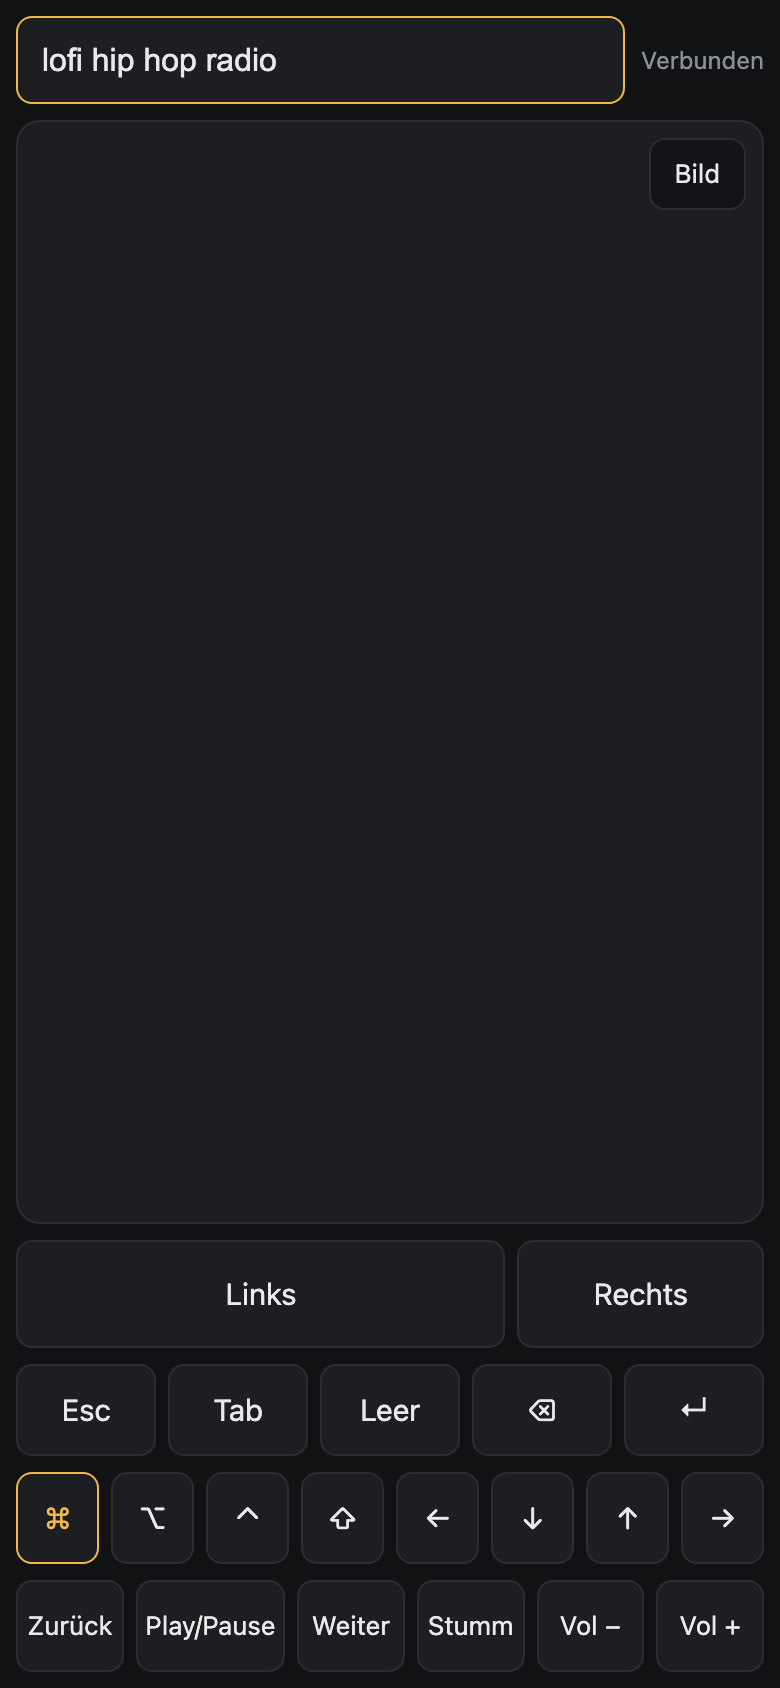
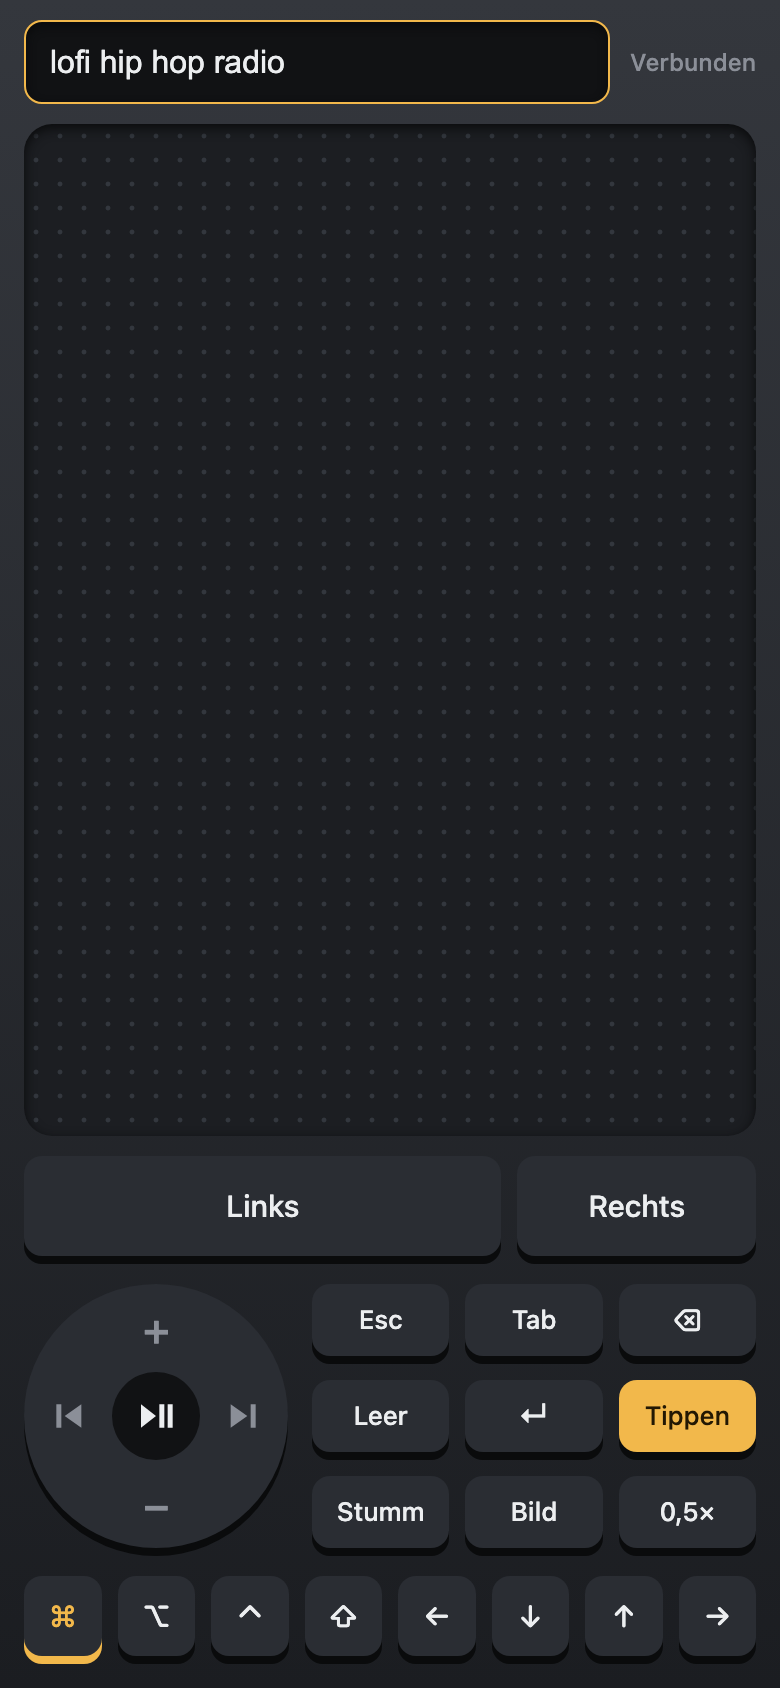
Redesign the web UI as a hardware remote with a full-screen pointer mode
Key caps with a visible edge that sink when pressed, a dial for volume
and transport, and the live view as a display above the trackpad.
Tapping the display opens pointer mode: the live view fills the phone,
the whole screen is the trackpad and the mouse keys float in a dock.
While the iOS keyboard is open only Esc, Tab, modifiers and arrows stay.

README screenshots show the remote, pointer mode and typing.

diff --git a/Web/index.html b/Web/index.html
@@ -7,47 +7,87 @@
 <meta name="mobile-web-app-capable" content="yes">
 <meta name="apple-mobile-web-app-status-bar-style" content="black-translucent">
 <meta name="apple-mobile-web-app-title" content="Remotey">
-<meta name="theme-color" content="#111214">
+<meta name="theme-color" content="#34373d">
 <link rel="apple-touch-icon" href="/icon.png">
 <title>Remotey</title>
 <style>
+  /* A hardware remote: graphite body, key caps with a visible edge that sink when pressed. */
   :root {
-    --bg: #111214; --surface: #1c1e22; --surface-active: #2e3138; --line: #2a2d33;
-    --text: #e8e9eb; --muted: #8b8f98; --accent: #f2b84b; --bad: #ef6b5e;
+    --body-top: #34373d; --body-bottom: #1b1d21; --deep: #111214; --surface: #1c1e22; --cap: #2a2d33;
+    --edge: #0a0b0c; --line: #33373e; --text: #eceef0; --muted: #8b8f98;
+    --accent: #f2b84b; --accent-ink: #231803; --bad: #ef6b5e; --glass: rgba(17, 18, 20, .72);
   }
   * { box-sizing: border-box; -webkit-tap-highlight-color: transparent; }
-  html, body { margin: 0; height: 100%; background: var(--bg); color: var(--text); overflow: hidden;
-    font: 15px/1.2 -apple-system, system-ui, sans-serif; overscroll-behavior: none; }
+  [hidden] { display: none !important; }
+  html, body { margin: 0; height: 100%; background: var(--body-bottom); color: var(--text); overflow: hidden;
+    font: 500 15px/1.2 -apple-system, system-ui, sans-serif; overscroll-behavior: none; }
   body { position: fixed; inset: 0; -webkit-user-select: none; user-select: none; -webkit-touch-callout: none; }
   #app { position: absolute; top: 0; left: 0; right: 0; height: var(--vh, 100dvh); display: flex;
-    flex-direction: column; gap: 8px;
-    padding: max(8px, env(safe-area-inset-top)) max(8px, env(safe-area-inset-right))
-             max(8px, env(safe-area-inset-bottom)) max(8px, env(safe-area-inset-left)); }
-  #top { display: flex; gap: 8px; align-items: center; }
-  #field { flex: 1; min-width: 0; height: 44px; padding: 0 12px; border-radius: 8px; border: 1px solid var(--line);
-    background: var(--surface); color: var(--text); font-size: 16px; outline: none;
+    flex-direction: column; gap: 10px; background: linear-gradient(180deg, var(--body-top), var(--body-bottom));
+    padding: max(10px, env(safe-area-inset-top)) max(12px, env(safe-area-inset-right))
+             max(12px, env(safe-area-inset-bottom)) max(12px, env(safe-area-inset-left)); }
+
+  #top { display: flex; gap: 10px; align-items: center; }
+  #field { flex: 1; min-width: 0; height: 42px; padding: 0 12px; border-radius: 9px; border: 1px solid var(--edge);
+    background: var(--deep); color: var(--text); font-size: 16px; outline: none; box-shadow: inset 0 2px 5px var(--edge);
     -webkit-user-select: text; user-select: text; }
   #field:focus { border-color: var(--accent); }
   #status { font-size: 12px; color: var(--muted); white-space: nowrap; }
   #status.bad { color: var(--bad); }
-  [hidden] { display: none !important; }
-  #padwrap { flex: 1; min-height: 60px; position: relative; overflow: hidden; border-radius: 12px;
-    background: var(--surface); border: 1px solid var(--line); }
+
+  /* Display: the live view. Small above the trackpad, or the whole phone in pointer mode. */
+  #screen { flex: 0 0 27%; position: relative; overflow: hidden; border-radius: 10px; background: var(--deep);
+    border: 3px solid var(--edge); box-shadow: inset 0 0 12px var(--edge); }
   #view { position: absolute; inset: 0; width: 100%; height: 100%; }
   #marker { position: absolute; width: 30px; height: 30px; margin: -15px 0 0 -15px; border-radius: 50%;
     border: 2px solid var(--accent); pointer-events: none; }
-  #pad { position: absolute; inset: 0; touch-action: none; display: flex; align-items: center;
-    justify-content: center; text-align: center; color: var(--muted); font-size: 13px; padding: 24px; }
-  #viewctl { position: absolute; top: 8px; right: 8px; display: flex; gap: 6px; }
-  #viewctl button { flex: none; height: 36px; padding: 0 12px; font-size: 13px; background: rgba(17, 18, 20, .78); }
-  .row { display: flex; gap: 6px; }
-  button { flex: 1; min-width: 0; height: 46px; border: 1px solid var(--line); border-radius: 8px;
-    background: var(--surface); color: var(--text); font: inherit; padding: 0; touch-action: none; }
-  button.pressed { background: var(--surface-active); }
-  button.on { border-color: var(--accent); color: var(--accent); }
-  .mouse button { height: 54px; }
-  .media button { font-size: 13px; }
+  #grow { position: absolute; right: 6px; bottom: 6px; padding: 4px 8px; border-radius: 7px; font-size: 11px;
+    background: var(--glass); color: var(--text); pointer-events: none; }
+
+  #pad { flex: 1; min-height: 60px; border-radius: 14px; touch-action: none; display: flex; align-items: center;
+    justify-content: center; text-align: center; color: var(--muted); font-size: 13px; padding: 24px;
+    background-color: var(--surface); background-image: radial-gradient(var(--line) 1px, transparent 1.4px);
+    background-size: 12px 12px; box-shadow: inset 0 2px 6px var(--edge); }
+
+  .row { display: flex; gap: 8px; padding-bottom: 4px; }
+  button { font: inherit; color: var(--text); border: 0; padding: 0; margin: 0; touch-action: none; }
+  .cap { flex: 1; min-width: 0; height: 40px; border-radius: 9px; background: var(--cap);
+    box-shadow: 0 4px 0 var(--edge); transition: transform .05s, box-shadow .05s; }
+  .cap.pressed, .cap:active { transform: translateY(3px); box-shadow: 0 1px 0 var(--edge); }
+  .cap.on { color: var(--accent); box-shadow: 0 4px 0 var(--accent); }
+  .cap.on.pressed { box-shadow: 0 1px 0 var(--accent); }
+  .cap.accent { background: var(--accent); color: var(--accent-ink); }
+  .cap.small { font-size: 13px; }
+  .mouse .cap { height: 50px; }
+
+  .deck { gap: 12px; align-items: flex-start; }
+  .dial { flex: none; width: 132px; height: 132px; border-radius: 50%; background: var(--cap);
+    box-shadow: 0 4px 0 var(--edge); display: grid; grid-template: repeat(3, 1fr) / repeat(3, 1fr); }
+  .dial button { background: none; color: var(--muted); font-size: 22px; display: grid; place-items: center; }
+  .dial button.pressed, .dial button:active { color: var(--accent); }
+  .dial svg { width: 20px; height: 20px; fill: currentColor; pointer-events: none; }
+  .dial .ok { border-radius: 50%; background: var(--deep); color: var(--text); }
+  .dial .ok.pressed, .dial .ok:active { background: var(--accent); color: var(--accent-ink); }
+  .keys { flex: 1; min-width: 0; display: grid; grid-template-columns: repeat(3, 1fr); gap: 12px 8px; }
+  .keys .cap { height: 36px; }
+
+  .kb-only { display: none; }
+  body.kb .kb-only { display: flex; }
   body.kb .hide-kb { display: none; }
+
+  /* Pointer mode: the display fills the phone, the whole screen is the trackpad, keys float in a dock. */
+  #dock { display: none; }
+  body.full #top, body.full .row { display: none; }
+  body.full #screen { position: fixed; inset: 0; border: 0; border-radius: 0; box-shadow: none; }
+  body.full #grow { display: none; }
+  body.full #pad { position: fixed; inset: 0; z-index: 2; border-radius: 0; background: none; box-shadow: none; }
+  body.full #dock { display: flex; gap: 6px; position: fixed; z-index: 3; padding: 8px; border-radius: 20px;
+    left: max(10px, env(safe-area-inset-left)); right: max(10px, env(safe-area-inset-right));
+    bottom: max(12px, env(safe-area-inset-bottom)); background: var(--glass);
+    -webkit-backdrop-filter: blur(14px); backdrop-filter: blur(14px); }
+  #dock button { flex: 1; min-width: 0; height: 46px; border-radius: 12px; background: var(--cap); font-size: 14px; }
+  #dock button.pressed, #dock button:active { background: var(--line); }
+  @media (prefers-reduced-motion: reduce) { .cap { transition: none; } }
 </style>
 </head>
 <body>
@@ -57,43 +97,60 @@
            autocomplete="off" autocorrect="off" autocapitalize="off" spellcheck="false" aria-label="Text an den Mac senden">
     <span id="status" role="status">Verbinde…</span>
   </div>
-  <div id="padwrap">
-    <canvas id="view" hidden></canvas>
+  <div id="screen" role="button" aria-label="Live-Bild, antippen für Vollbild" hidden>
+    <canvas id="view"></canvas>
     <div id="marker" hidden></div>
-    <div id="pad" aria-label="Trackpad"></div>
-    <div id="viewctl">
-      <button id="zoomBtn" data-act="zoom" aria-label="Zoom der Live-Ansicht" hidden>0,5×</button>
-      <button id="viewBtn" data-act="view" aria-label="Live-Ansicht des Mac-Bildschirms">Bild</button>
+    <div id="grow">Vollbild</div>
+  </div>
+  <div id="pad" aria-label="Trackpad"></div>
+  <div class="row mouse hide-kb">
+    <button class="cap" data-hold="left" style="flex:2">Links</button>
+    <button class="cap" data-click="right">Rechts</button>
+  </div>
+  <div class="row deck hide-kb">
+    <div class="dial" role="group" aria-label="Medien">
+      <span></span>
+      <button data-media="volup" data-repeat aria-label="Lauter">+</button>
+      <span></span>
+      <button data-media="prev" aria-label="Vorheriger Titel"><svg viewBox="0 0 24 24"><path d="M5 5h3v14H5zM20 5v14l-10-7z"/></svg></button>
+      <button class="ok" data-media="play" aria-label="Play/Pause"><svg viewBox="0 0 24 24"><path d="M3 5l9 7-9 7zM14 5h3v14h-3zM19 5h3v14h-3z"/></svg></button>
+      <button data-media="next" aria-label="Nächster Titel"><svg viewBox="0 0 24 24"><path d="M16 5h3v14h-3zM4 5l10 7-10 7z"/></svg></button>
+      <span></span>
+      <button data-media="voldown" data-repeat aria-label="Leiser">−</button>
+      <span></span>
+    </div>
+    <div class="keys">
+      <button class="cap small" data-key="escape">Esc</button>
+      <button class="cap small" data-key="tab">Tab</button>
+      <button class="cap" data-key="backspace" data-repeat aria-label="Löschen">⌫</button>
+      <button class="cap small" data-key="space">Leer</button>
+      <button class="cap" data-key="return" aria-label="Enter">↵</button>
+      <button class="cap small accent" data-act="type">Tippen</button>
+      <button class="cap small" data-media="mute">Stumm</button>
+      <button class="cap small" id="viewBtn" data-act="view" aria-label="Live-Bild ein oder aus">Bild</button>
+      <button class="cap small" data-act="zoom" aria-label="Zoom des Live-Bilds">0,5×</button>
     </div>
   </div>
-  <div class="row mouse">
+  <div class="row kb-only">
+    <button class="cap small" data-key="escape">Esc</button>
+    <button class="cap small" data-key="tab">Tab</button>
+    <button class="cap small accent" data-act="done">Fertig</button>
+  </div>
+  <div class="row mods">
+    <button class="cap" data-mod="cmd" aria-label="Command">⌘</button>
+    <button class="cap" data-mod="alt" aria-label="Option">⌥</button>
+    <button class="cap" data-mod="ctrl" aria-label="Control">⌃</button>
+    <button class="cap" data-mod="shift" aria-label="Shift">⇧</button>
+    <button class="cap" data-key="left" data-repeat aria-label="Links">←</button>
+    <button class="cap" data-key="down" data-repeat aria-label="Runter">↓</button>
+    <button class="cap" data-key="up" data-repeat aria-label="Hoch">↑</button>
+    <button class="cap" data-key="right" data-repeat aria-label="Rechts">→</button>
+  </div>
+  <div id="dock">
     <button data-hold="left" style="flex:2">Links</button>
-    <button data-click="right">Rechts</button>
-  </div>
-  <div class="row">
-    <button data-key="escape">Esc</button>
-    <button data-key="tab">Tab</button>
-    <button data-key="space">Leer</button>
-    <button data-key="backspace" data-repeat aria-label="Löschen">⌫</button>
-    <button data-key="return" aria-label="Enter">↵</button>
-  </div>
-  <div class="row">
-    <button data-mod="cmd" aria-label="Command">⌘</button>
-    <button data-mod="alt" aria-label="Option">⌥</button>
-    <button data-mod="ctrl" aria-label="Control">⌃</button>
-    <button data-mod="shift" aria-label="Shift">⇧</button>
-    <button data-key="left" data-repeat aria-label="Links">←</button>
-    <button data-key="down" data-repeat aria-label="Runter">↓</button>
-    <button data-key="up" data-repeat aria-label="Hoch">↑</button>
-    <button data-key="right" data-repeat aria-label="Rechts">→</button>
-  </div>
-  <div class="row media hide-kb">
-    <button data-media="prev">Zurück</button>
-    <button data-media="play" style="flex:1.4">Play/Pause</button>
-    <button data-media="next">Weiter</button>
-    <button data-media="mute">Stumm</button>
-    <button data-media="voldown" data-repeat aria-label="Leiser">Vol −</button>
-    <button data-media="volup" data-repeat aria-label="Lauter">Vol +</button>
+    <button data-click="right" style="flex:1.5">Rechts</button>
+    <button data-act="zoom" aria-label="Zoom des Live-Bilds">0,5×</button>
+    <button data-act="full" aria-label="Zurück zur Fernbedienung">Tasten</button>
   </div>
 </div>
 <script>
@@ -222,22 +279,30 @@ function padEnd(e) {
 pad.addEventListener('touchend', padEnd, { passive: false });
 pad.addEventListener('touchcancel', padEnd, { passive: false });
 
-// ---- Live view: the Mac streams the screen region around the cursor into the trackpad area.
-const view = $('#view'), marker = $('#marker'), wrap = $('#padwrap'), viewCtx = view.getContext('2d');
+// ---- Live view: the Mac streams the screen region around the cursor into the display.
+// The display sits above the trackpad; in pointer mode ("full") it fills the phone.
+const screenEl = $('#screen'), view = $('#view'), marker = $('#marker'), viewCtx = view.getContext('2d');
 const ZOOMS = [0.5, 1, 1.5, 2];
-let viewOn = false, zoom = 0.5, frameSeq = 0, drawnSeq = 0;
+let viewOn = false, full = false, zoom = 0.5, frameSeq = 0, drawnSeq = 0;
 try {
   viewOn = localStorage.getItem('remotey-view') === '1';
   zoom = ZOOMS.includes(+localStorage.getItem('remotey-zoom')) ? +localStorage.getItem('remotey-zoom') : 0.5;
 } catch {}
 function syncView() {
+  if (!viewOn) full = false;
+  document.body.classList.toggle('full', full);
+  screenEl.hidden = !viewOn;
+  if (!viewOn) marker.hidden = true;
   $('#viewBtn').classList.toggle('on', viewOn);
-  $('#zoomBtn').hidden = !viewOn;
-  $('#zoomBtn').textContent = String(zoom).replace('.', ',') + '×';
-  if (!viewOn) view.hidden = marker.hidden = true;
+  document.querySelectorAll('[data-act=zoom]').forEach((b) => { b.textContent = String(zoom).replace('.', ',') + '×'; });
   try { localStorage.setItem('remotey-view', viewOn ? '1' : '0'); localStorage.setItem('remotey-zoom', zoom); } catch {}
-  const r = wrap.getBoundingClientRect();
+  const r = screenEl.getBoundingClientRect(); // measured after the layout change above
   send({ t: 'view', on: viewOn, w: r.width, h: r.height, zoom, dpr: window.devicePixelRatio || 2 });
+}
+function setFull(on) {
+  full = on;
+  if (on) { viewOn = true; field.blur(); }
+  syncView();
 }
 async function drawFrame(buffer) {
   if (!viewOn) return;
@@ -251,17 +316,22 @@ async function drawFrame(buffer) {
     viewCtx.drawImage(bitmap, 0, 0);
     marker.style.left = cx * 100 + '%';
     marker.style.top = cy * 100 + '%';
-    view.hidden = marker.hidden = false;
-    pad.textContent = '';
+    marker.hidden = false;
   }
   bitmap.close();
 }
+// Tapping the small display opens pointer mode. In pointer mode the trackpad covers the display.
+screenEl.addEventListener('touchend', (e) => { e.preventDefault(); setFull(true); }, { passive: false });
+screenEl.addEventListener('click', () => setFull(true));
 
 // ---- Buttons. preventDefault on touchstart keeps the iOS keyboard open.
 function fire(b) {
   const d = b.dataset;
   if (d.act === 'view') { viewOn = !viewOn; syncView(); }
-  else if (d.act === 'zoom') { zoom = ZOOMS[(ZOOMS.indexOf(zoom) + 1) % ZOOMS.length]; syncView(); }
+  else if (d.act === 'zoom') { zoom = ZOOMS[(ZOOMS.indexOf(zoom) + 1) % ZOOMS.length]; viewOn = true; syncView(); }
+  else if (d.act === 'full') setFull(!full);
+  else if (d.act === 'done') field.blur();
+  else if (d.act === 'type') field.focus();
   else if (d.key) sendKey(d.key);
   else if (d.media) send({ t: 'media', k: d.media });
   else if (d.click) send({ t: 'c', b: d.click });
@@ -275,6 +345,7 @@ document.querySelectorAll('button').forEach((b) => {
     keepAwake();
     b.classList.add('pressed');
     if (b.dataset.hold) return send({ t: 'b', b: b.dataset.hold, d: true });
+    if (b.dataset.act === 'type') return; // iOS opens the keyboard only for a focus made on touchend
     fire(b);
     if ('repeat' in b.dataset) delay = setTimeout(() => { repeat = setInterval(() => fire(b), 70); }, 400);
   }, { passive: false });
@@ -283,6 +354,7 @@ document.querySelectorAll('button').forEach((b) => {
     stop();
     b.classList.remove('pressed');
     if (b.dataset.hold) send({ t: 'b', b: b.dataset.hold, d: false });
+    if (b.dataset.act === 'type' && e.type === 'touchend') field.focus();
   };
   b.addEventListener('touchend', end, { passive: false });
   b.addEventListener('touchcancel', end, { passive: false });
@@ -328,7 +400,7 @@ function fit() {
   const h = window.visualViewport ? visualViewport.height : innerHeight;
   document.documentElement.style.setProperty('--vh', h + 'px');
   scrollTo(0, 0);
-  if (viewOn) syncView(); // the pad changed size, so the captured region must follow
+  if (viewOn) syncView(); // the display changed size, so the captured region must follow
 }
 if (window.visualViewport) { visualViewport.addEventListener('resize', fit); visualViewport.addEventListener('scroll', fit); }
 addEventListener('resize', fit);

diff --git a/README.md b/README.md
@@ -10,9 +10,11 @@
 </p>
 
 <p align="center">
-  <img src="docs/live.png" width="260" alt="Trackpad with the live view of the Mac screen around the pointer">
-  &nbsp;&nbsp;
-  <img src="docs/typing.png" width="260" alt="Typing with a modifier armed">
+  <img src="docs/remote.png" width="250" alt="Remote with the live view of the Mac screen above the trackpad">
+  &nbsp;
+  <img src="docs/full.png" width="250" alt="Pointer mode: the live view fills the phone">
+  &nbsp;
+  <img src="docs/typing.png" width="250" alt="Typing with a modifier armed">
 </p>
 
 ## How it works
@@ -60,7 +62,9 @@ The build signs with your "Apple Development" identity so macOS keeps the Access
 | Two-finger tap | Right click |
 | Hold "Links" and swipe with a second finger | Drag |
 | ⌘ ⌥ ⌃ ⇧ | Applies to the next key, e.g. ⌘ then `w` |
-| "Bild" | Live view: shows the screen around the pointer inside the trackpad, with a zoom button (0.5× to 2×) |
+| "Bild" | Live view: a display above the trackpad shows the screen around the pointer; the key next to it zooms (0.5× to 2×) |
+| Tap the display | Pointer mode: the live view fills the phone and the whole screen is the trackpad; "Tasten" goes back |
+| Dial | Volume up and down, previous, play/pause, next |
 
 Text typed on the iOS keyboard is replayed on the Mac key by key.
 
